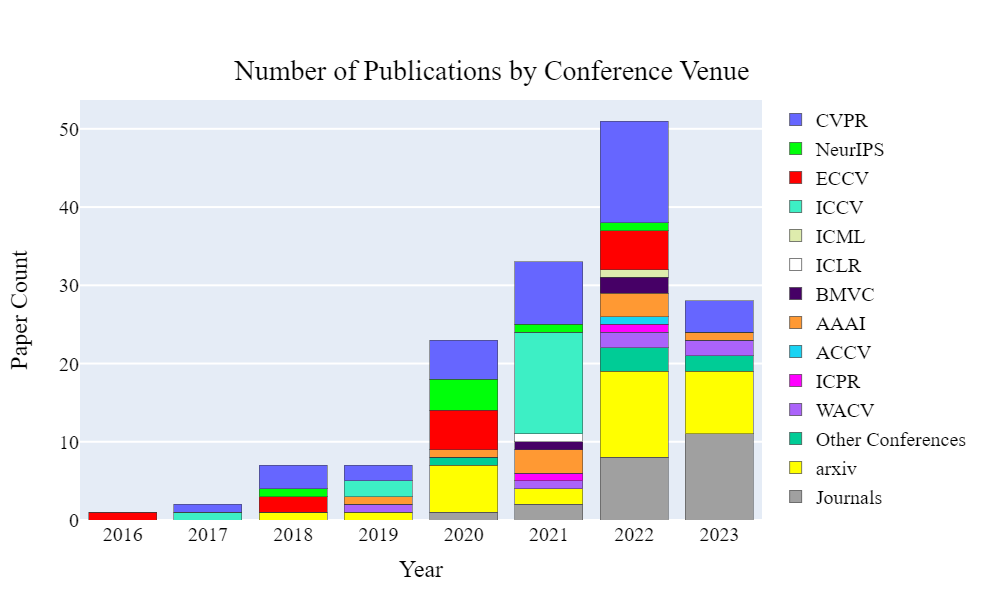
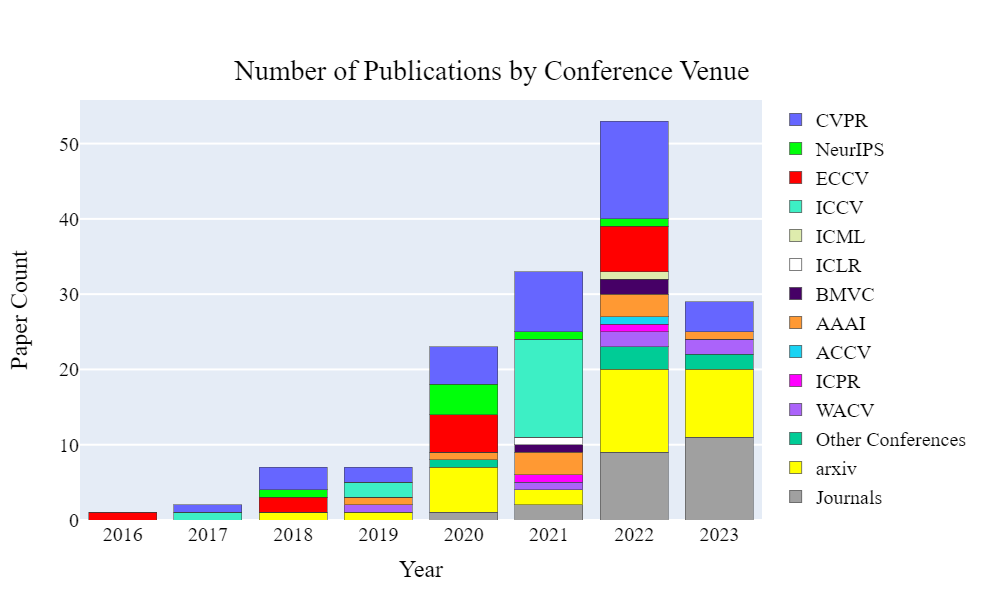
update
- add benchmark paper (2023)
- update the figure

diff --git a/README.md b/README.md
@@ -65,14 +65,19 @@ Madeline C. Schiappa, Yogesh S. Rawat, And Mubarak Shah <br>
 
 
 
-
 # Benchmarking
+
+ - **Benchmarking self-supervised video representation learning** (2023) <br> 
+*arXiv preprint arXiv:2306.06010* <br>
+Akash Kumar, Ashlesha Kumar, Vibhav Vineet, Yogesh Singh Rawat <br>
+[[Paper]](https://arxiv.org/pdf/2306.06010.pdf) [[Page]](https://thecodeeagle.github.io/webb/)
 
 
  - **How Severe Is Benchmark-Sensitivity in Video Self-supervised Learning?** (2022, October) <br> 
 *In Computer Vision–ECCV 2022: 17th European Conference, Tel Aviv, Israel, October 23–27, 2022* <br>
 Fida Mohammad Thoker, Hazel Doughty, Piyush Bagad, Cees Snoek <br>
 [[Paper]](https://arxiv.org/pdf/2203.14221.pdf) [[Github]](https://github.com/fmthoker/SEVERE-BENCHMARK) [[Page]](https://bpiyush.github.io/SEVERE-website/)
+
 
 # Representation Learning
 
